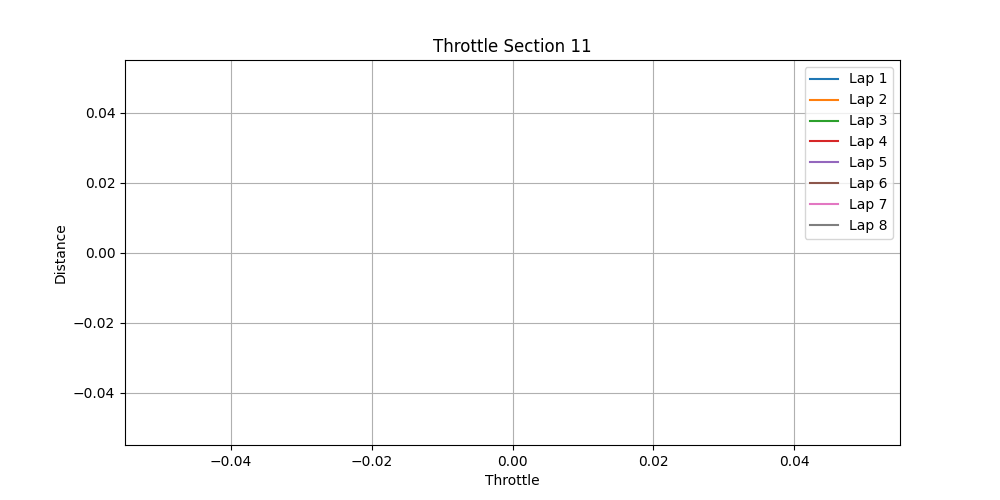
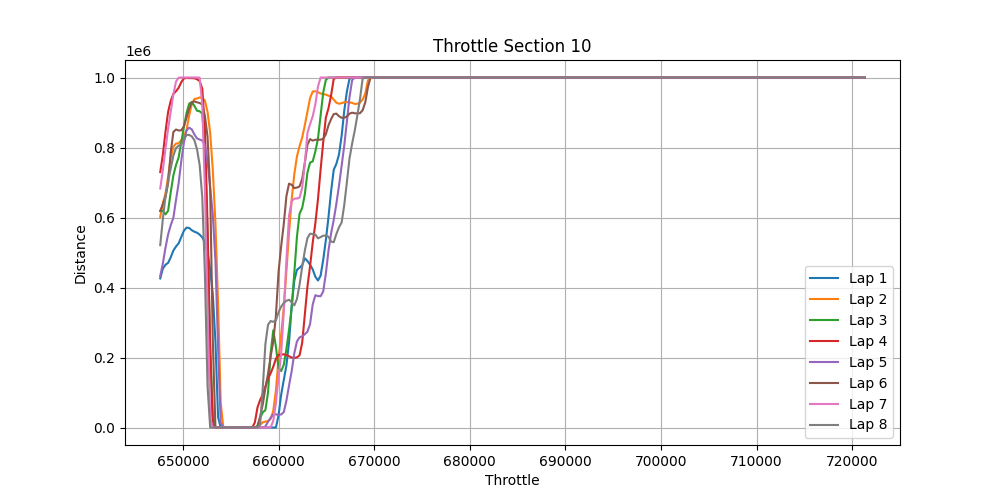
Fixes and model

diff --git a/src/data_handler.py b/src/data_handler.py
@@ -102,11 +102,11 @@ def filter_channel_by_section(channel: np.ndarray, lapDist: np.ndarray, section:
     """
     
     # LapDistPct is fixed-point
-    if section.end < 1:
+    if section.end <= 1:
         section.end = section.end*1000000
         section.start = section.start*1000000
     
-    indices = (lapDist >= section.end) & (lapDist <= section.start)
+    indices = (lapDist >= section.start) & (lapDist <= section.end)
     if(indices[-1] == False):
         indices = indices | np.roll(indices, shift=1)
 
@@ -164,6 +164,8 @@ def select_lap_from_data(data: np.ndarray, lap_number: int) -> tuple[np.ndarray,
     for i in range(len(data)):
         filtered_data.append(data[i][lap_indices[0]-1:lap_indices[-1]+1])
 
+    filtered_data[utils.raw_channels.index("LapDistPct")][0] = 0 # Formalismo
+
     # Convertir la lista a un array de numpy
     filtered_data = np.array(filtered_data)
 
@@ -212,6 +214,24 @@ def get_lap_time(data: np.ndarray) -> int:
         data (np.ndarray): numpy array with the data
     Returns:
         int: lap time in microseconds
+    """
+    
+    # Obtener el tiempo de vuelta
+    lap_time = read_channel_from_data(data, "SessionTime")
+    
+    # Convertir el tiempo de vuelta a microsegundos
+    lap_time = lap_time[-1] - lap_time[0]
+    
+    return lap_time
+
+def get_section_time(data: np.ndarray) -> int:
+    """
+    Get the section time from the data
+    
+    Args:
+        data (np.ndarray): numpy array with the data
+    Returns:
+        int: section time in microseconds
     """
     
     # Obtener el tiempo de vuelta
@@ -293,13 +313,15 @@ def normalize_data_by_lapDistPct(data: np.ndarray, jump: int) -> np.ndarray:
         """
         
         lapDist = read_channel_from_data(data, "LapDistPct")
-        lapDist[0] = 0 # Formalidad
+        
         new_data = []
         for i in range(len(data)):
             if (utils.raw_channels[i] not in utils.raw_model_channels):
                 continue
             ret, x = normalize_channel_lap_by_lapDist(data[i], lapDist, jump)
             new_data.append(ret)
+
+        new_data[utils.raw_model_channels.index("LapDistPct")] = x
 
         # Convertir la lista a un array de numpy
         data = np.array(new_data)

diff --git a/src/model.py b/src/model.py
@@ -1,0 +1,69 @@
+import tensorflow as tf
+from tensorflow.keras import layers, models
+
+# Suponiendo que tus datos ya están cargados en X (inputs) y y (targets)
+# X: shape (n_samples, n_features)
+# y: shape (n_samples, n_outputs)
+
+class Model():
+    
+    def __init__(self, X, y):
+        """
+        Constructor de la clase Model.
+        
+        - X: Datos de entrada.
+        - y: Datos de salida.
+        """
+        self.X = X
+        self.y = y
+        self.build_model()
+
+    def build_model(self):
+        """
+        Método para construir y compilar el modelo.
+        
+        - X: Datos de entrada.
+        - y: Datos de salida.
+        """
+        # Definición del modelo
+        input_shape = self.X.shape[1]
+        output_shape = self.y.shape[1]
+
+        model = models.Sequential([
+            layers.Input(shape=(input_shape,)),
+            layers.Dense(128, activation='relu'),
+            layers.Dense(64, activation='relu'),
+            layers.Dense(output_shape)  # Última capa sin activación si es regresión
+        ])
+
+        model.compile(
+            optimizer='adam',
+            loss='mse',                 # Usamos MSE para regresión
+            metrics=['mae']
+        )
+
+    def train_model(self, X, y):
+        """
+        Método para entrenar el modelo.
+        
+        - X: Datos de entrada.
+        - y: Datos de salida.
+        """
+        if self.model == None:
+            raise Exception("El modelo no ha sido construido.")
+
+        # Entrenamiento
+        self.model.fit(X, y, epochs=50, batch_size=32, validation_split=0.2)
+
+    def evaluate_model(self, X_test, y_test):
+        """
+        Método para evaluar el modelo.
+        
+        - X_test: Datos de entrada de prueba.
+        - y_test: Datos de salida de prueba.
+        """
+        if self.model == None:
+            raise Exception("El modelo no ha sido construido.")
+        
+        loss, mae = self.model.evaluate(X_test, y_test)
+        print(f"Loss: {loss}, MAE: {mae}")

diff --git a/src/main.py b/src/main.py
@@ -6,8 +6,6 @@ import matplotlib.pyplot as plt
 import numpy as np
 import pandas as pd
 import json
-import math
-from time import sleep
 from utils import Track, LapType
 
 file_path = "tfg_info/data/live.csv"
@@ -24,30 +22,21 @@ def main():
         track_data = json.load(json_file)
         track = Track(track_data["track"], track_data["length"], track_data["sections"])
 
-    plt.figure(figsize=(10, 5))
-    section = 10
-    section = track.sections[section]
-    section = TrackSection(section["sector"], 
-                           section["start"]/track.length, section["end"]/track.length)
-
     for i in range(number_laps_stint_csv(data)):
         lap, t = select_lap_from_data(data, i)
+        if t == LapType.INCOMPLETE_LAP:
+            continue
         print("Lap ",i,": ", end=" ")
         print_raw_data_in_minutes(get_lap_time(lap))
         print(t, end=" ")
-        lap = normalize_data_by_lapDistPct(lap, JUMP)
-        print("Size ", len(lap[0]))
-        if t == LapType.VALID_LAP or t == LapType.INCIDENT_LAP:
+        suma = 0
+        for section in track.sections:
             section_data = filter_data_by_section(lap, section)
-            plt.plot(read_channel_from_data(section_data, "ThrottleRaw"), read_channel_from_data(section_data, "LapDistPct"), label="Lap "+str(i))
-
-    plt.title("Throttle Section "+section.name)
-    plt.xlabel("Throttle")
-    plt.ylabel("Distance")
-    plt.legend()
-    plt.grid()
-    plt.savefig(output_path+"matplot/output_plot.png")
-
+            suma += get_section_time(section_data)
+        print("Sections ", end=" ")
+        print_raw_data_in_minutes(suma)
+        print("Size ", len(lap[0]))
+ 
     print("Fin del programa")
 
     return

diff --git a/src/plot.py b/src/plot.py
@@ -1,0 +1,55 @@
+import sys
+import os
+sys.path.append(os.path.dirname(os.path.dirname(os.path.abspath(__file__))))
+from src.data_handler import *
+import matplotlib.pyplot as plt
+import numpy as np
+import pandas as pd
+import json
+import math
+from time import sleep
+from utils import Track, LapType
+
+file_path = "tfg_info/data/live.csv"
+track_path = "tfg_info/tracks/laguna_seca.json"
+output_path = "tfg_info/out/"
+JUMP = 275
+
+def main():
+
+    print("Inicio del programa")
+
+    data = read_csv(file_path)
+    with open(track_path) as json_file:
+        track_data = json.load(json_file)
+        track = Track(track_data["track"], track_data["length"], track_data["sections"])
+
+    plt.figure(figsize=(10, 5))
+    section = 9
+    section = track.sections[section]
+
+    for i in range(number_laps_stint_csv(data)):
+        lap, t = select_lap_from_data(data, i)
+        print("Lap ",i,": ", end=" ")
+        print_raw_data_in_minutes(get_lap_time(lap))
+        print(t, end=" ")
+        lap = normalize_data_by_lapDistPct(lap, JUMP)
+        print("Size ", len(lap[0]))
+        if t == LapType.VALID_LAP or t == LapType.INCIDENT_LAP:
+            section_data = filter_data_by_section(lap, section)
+            plt.plot(read_channel_from_data(section_data, "LapDistPct"),
+                     read_channel_from_data(section_data, "ThrottleRaw"), label="Lap "+str(i))
+
+    plt.title("Throttle Section "+section.name)
+    plt.xlabel("Throttle")
+    plt.ylabel("Distance")
+    plt.legend()
+    plt.grid()
+    plt.savefig(output_path+"matplot/output_plot.png")
+
+    print("Fin del programa")
+
+    return
+
+if __name__ == "__main__":
+    main()

diff --git a/src/utils.py b/src/utils.py
@@ -242,7 +242,11 @@ class Track():
         self.name = name
         self.length = length
         self.number_of_sections = len(sections)
-        self.sections = sections
+        self.sections = []
+        for section in sections:
+            self.sections.append(TrackSection(section["sector"], 
+                                              section["start"]/length, 
+                                              section["end"]/length))
     
 class TrackSection():
     """
